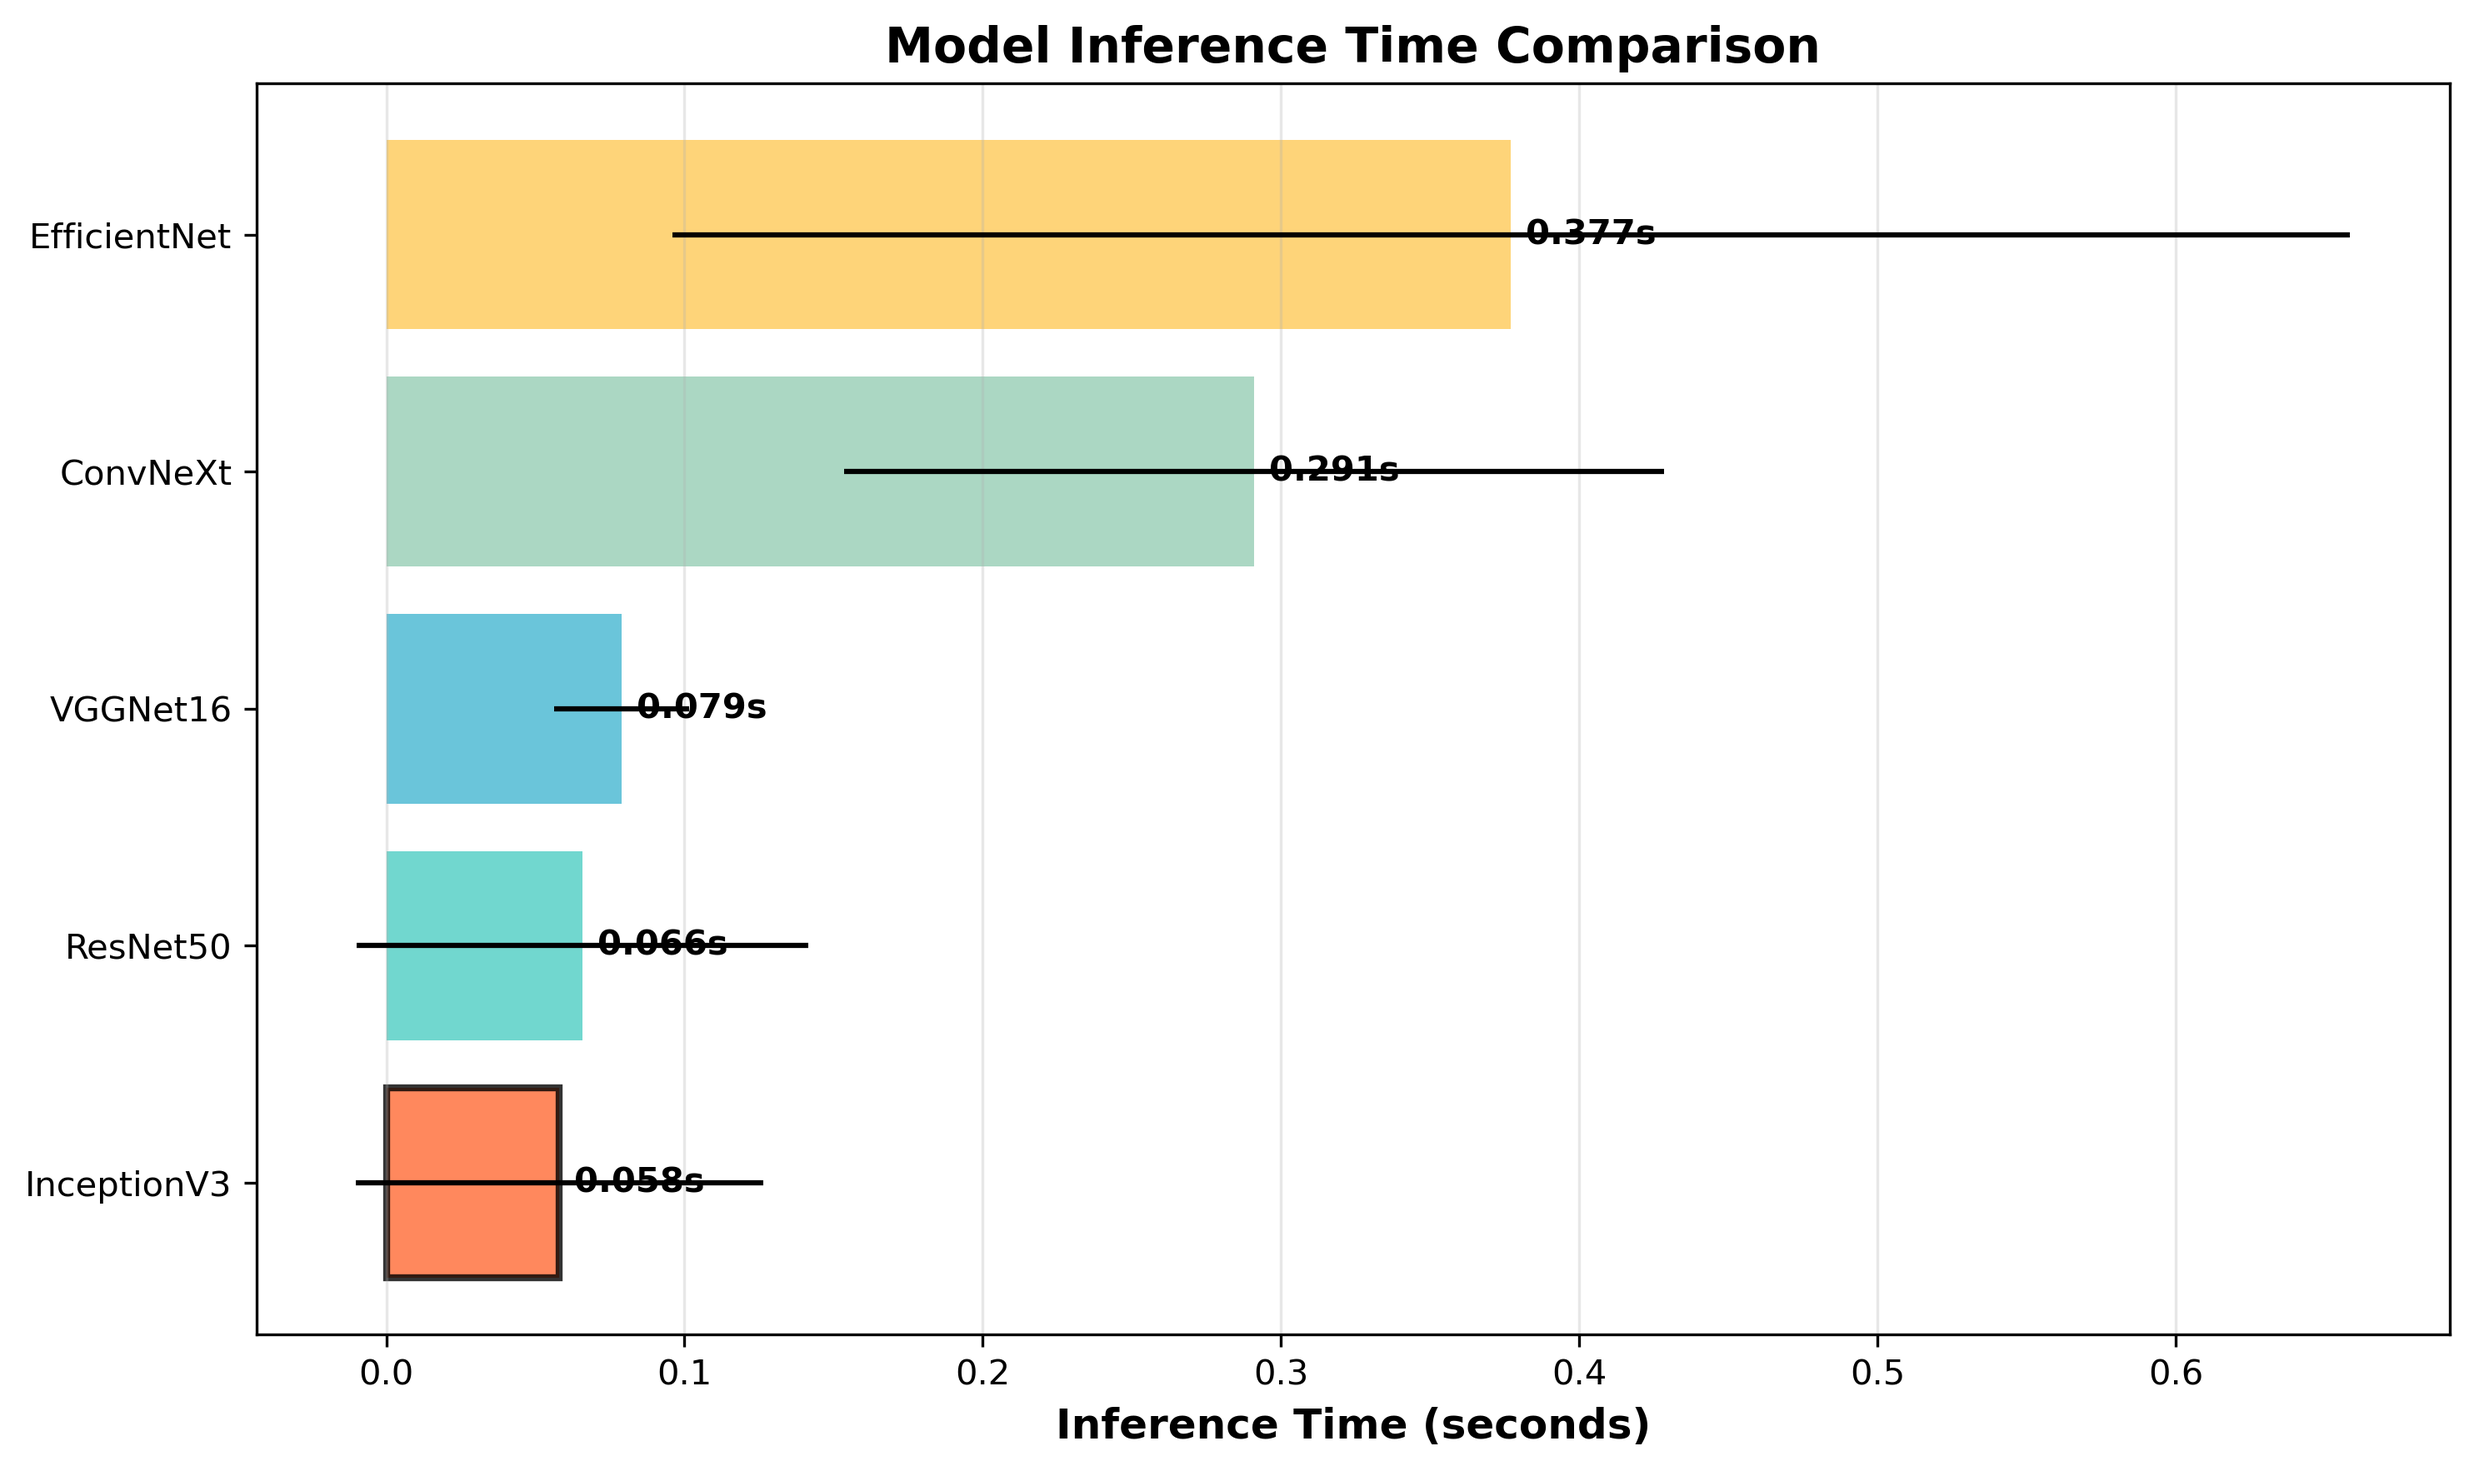
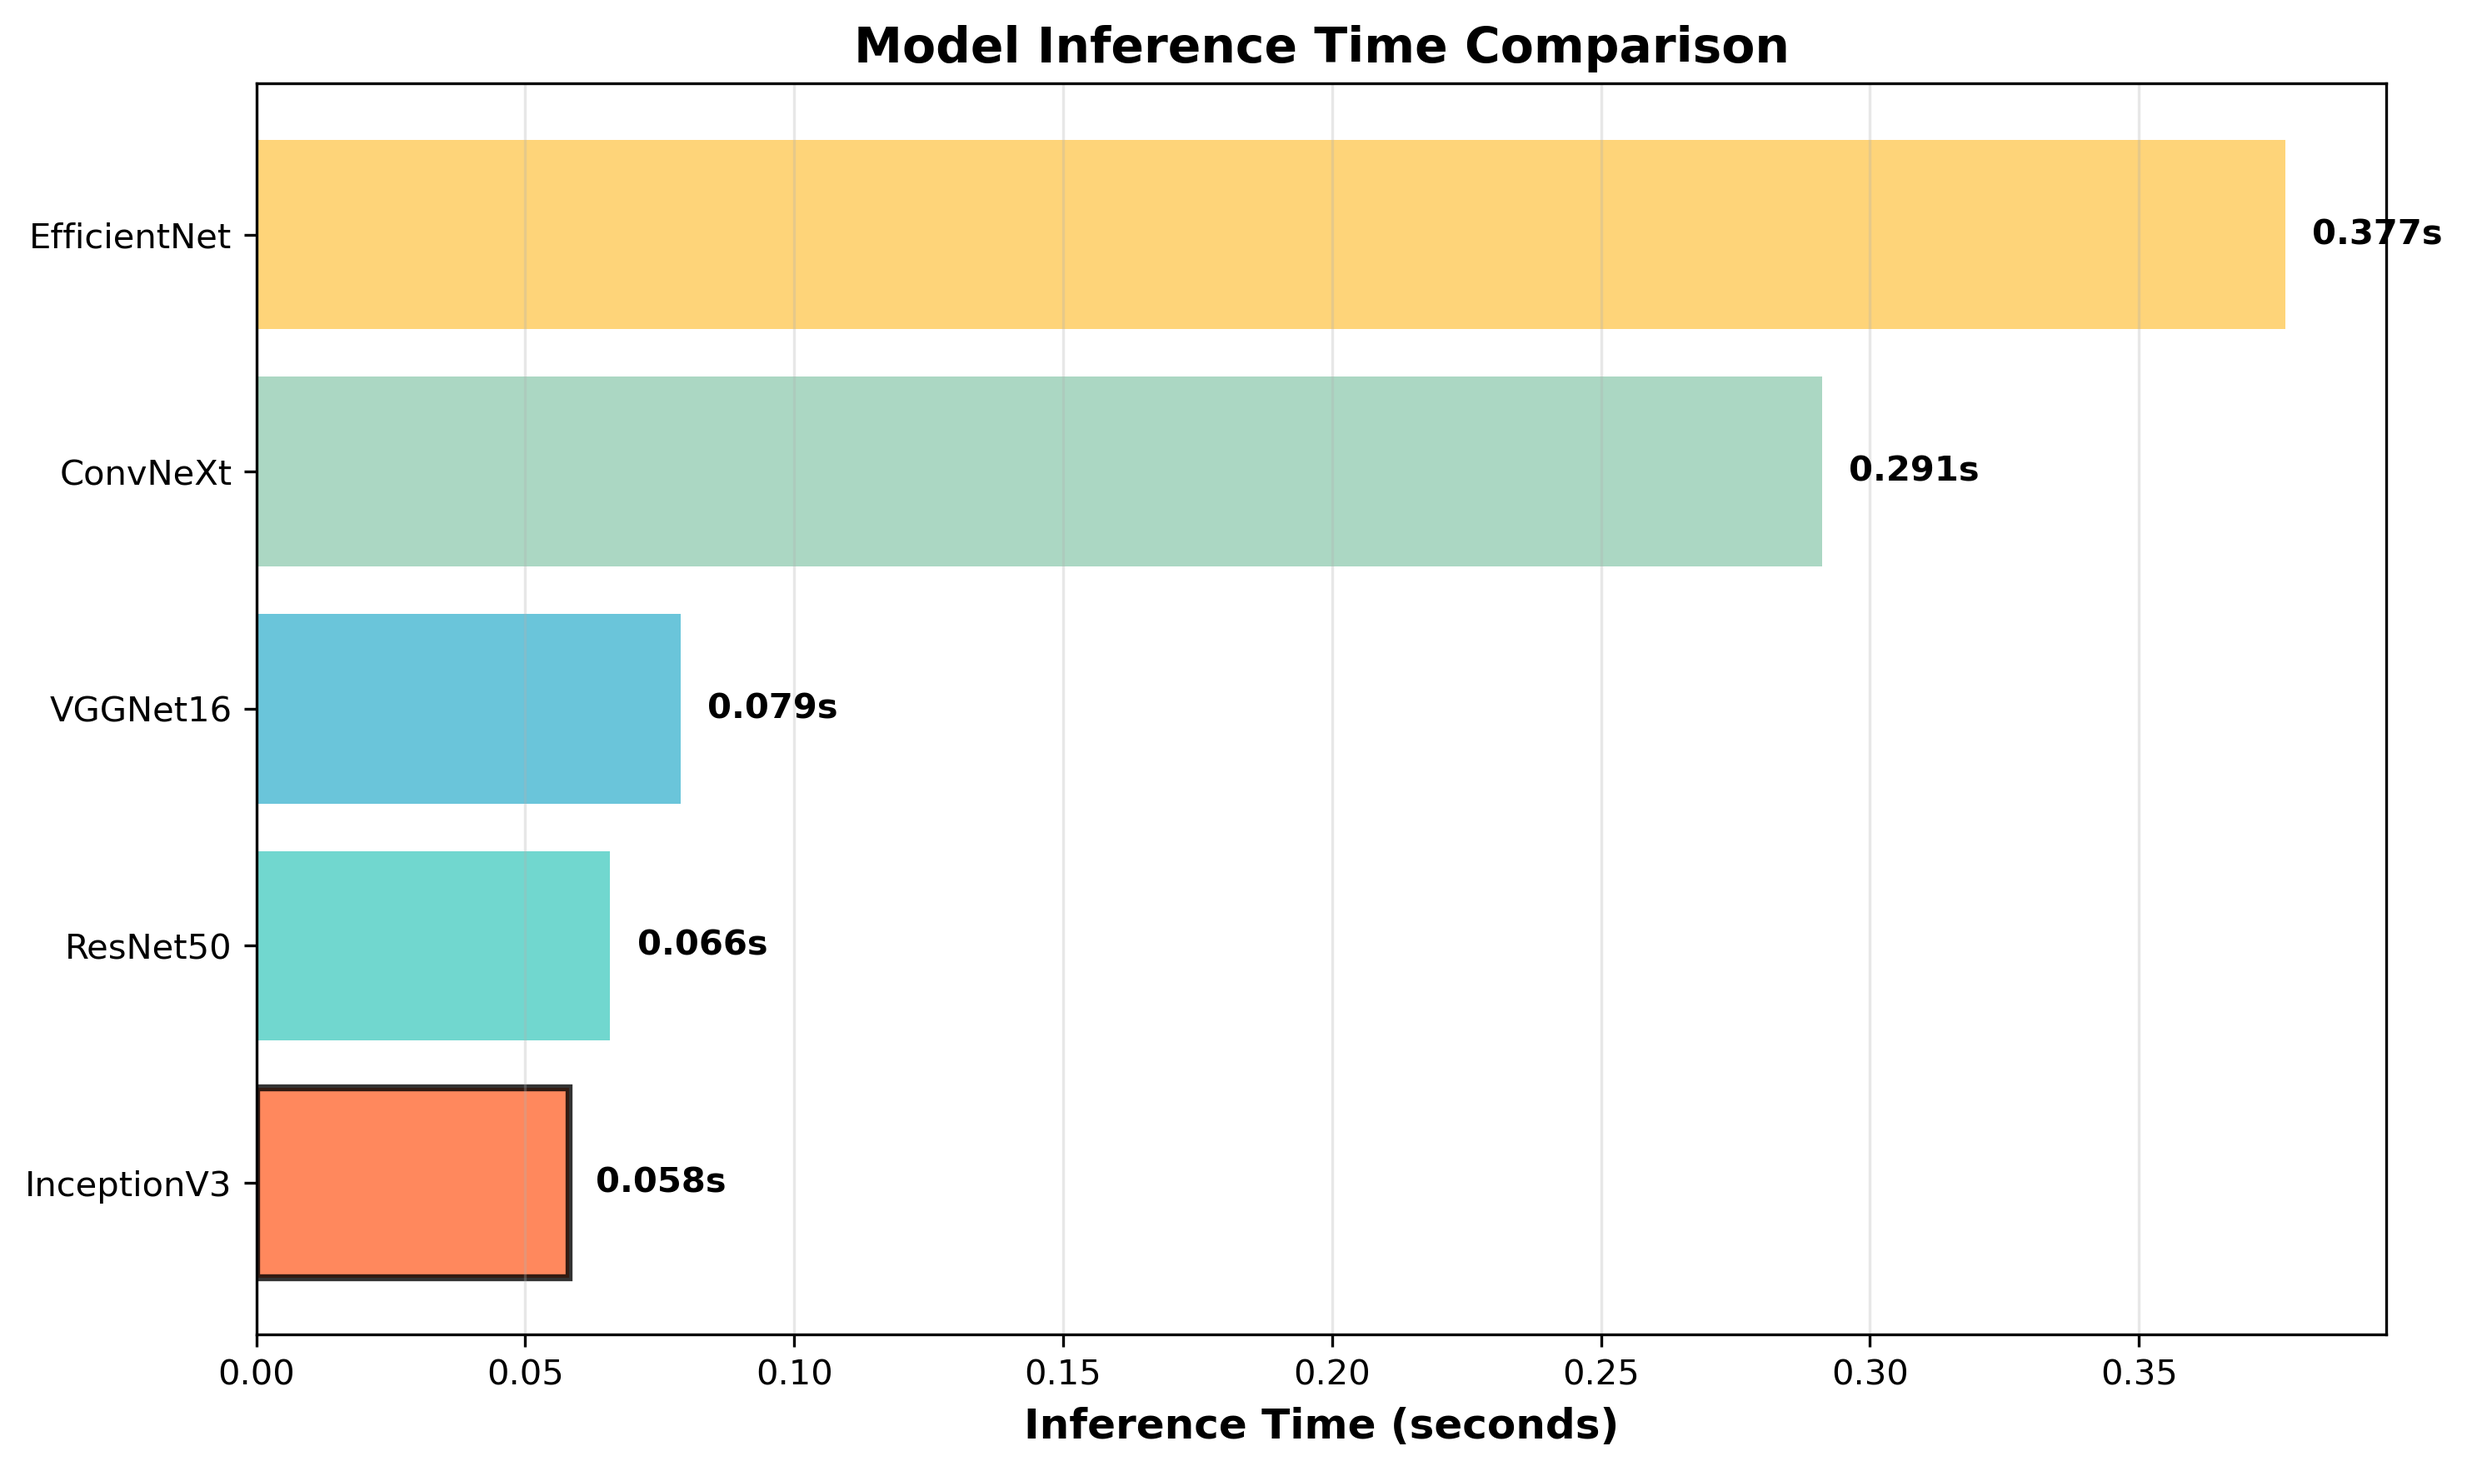
ch03pj01 - fixes some bugs

diff --git a/Zarni_Nway_Oo/ch03_pj01/analysis_visualizer.py b/Zarni_Nway_Oo/ch03_pj01/analysis_visualizer.py
@@ -89,6 +89,16 @@ class CNNAnalyzer:
         
         for model in self.models:
             if model not in model_data:
+                # Add default empty metrics for missing models
+                metrics.append({
+                    'model': model,
+                    'avg_top1_confidence': 0.0,
+                    'avg_all_confidence': 0.0,
+                    'std_top1_confidence': 0.0,
+                    'high_confidence_pct': 0.0,
+                    'low_confidence_pct': 0.0,
+                    'total_predictions': 0
+                })
                 continue
                 
             data = model_data[model]
@@ -133,15 +143,12 @@ class CNNAnalyzer:
                 min_time = times.min()
                 max_time = times.max()
             else:
-                # Fallback to simulated data
-                simulated_times = {
-                    'ResNet50': 0.045, 'VGGNet16': 0.032, 'InceptionV3': 0.058,
-                    'ConvNeXt': 0.072, 'EfficientNet': 0.089
-                }
-                avg_time = simulated_times[model]
-                std_time = avg_time * 0.2
-                min_time = avg_time * 0.8
-                max_time = avg_time * 1.2
+                # Set default values for missing timing data
+                print(f"⚠  Warning: No timing data found for {model}, using default values")
+                avg_time = 1.0  # Default 1 second
+                std_time = 0.1
+                min_time = 0.9
+                max_time = 1.1
             
             timing_metrics.append({
                 'model': model,
@@ -160,6 +167,16 @@ class CNNAnalyzer:
         
         for model in self.models:
             if model not in model_data:
+                # Add default confidence metrics for missing models
+                confidence_metrics.append({
+                    'model': model,
+                    'mean_confidence': 0.0,
+                    'median_confidence': 0.0,
+                    'q25_confidence': 0.0,
+                    'q75_confidence': 0.0,
+                    'min_confidence': 0.0,
+                    'max_confidence': 0.0
+                })
                 continue
                 
             data = model_data[model]
@@ -183,18 +200,27 @@ class CNNAnalyzer:
         timing_metrics = self.calculate_timing_metrics()
         conf_metrics = self.calculate_confidence_metrics()
         
-        # Merge all metrics
-        summary = perf_metrics.merge(timing_metrics, on='model')
-        summary = summary.merge(conf_metrics, on='model')
+        # Merge all metrics using left join to preserve all models
+        summary = perf_metrics.merge(timing_metrics, on='model', how='left')
+        summary = summary.merge(conf_metrics, on='model', how='left')
         
-        # Calculate overall score (normalized)
-        summary['speed_score'] = 1 / summary['avg_time']  # Higher is better
+        # Fill any missing values with reasonable defaults
+        summary['avg_time'] = summary['avg_time'].fillna(1.0)  # Default 1 second
+        summary = summary.fillna(0)
+        
+        # Calculate overall score (normalized) - protect against division by zero
+        summary['speed_score'] = 1 / summary['avg_time'].replace(0, 1.0)  # Higher is better
         summary['confidence_score'] = summary['avg_top1_confidence']
         
-        # Normalize scores to 0-100
+        # Normalize scores to 0-100 (handle division by zero)
         for col in ['speed_score', 'confidence_score']:
-            summary[f'{col}_normalized'] = ((summary[col] - summary[col].min()) / 
-                                          (summary[col].max() - summary[col].min())) * 100
+            col_min = summary[col].min()
+            col_max = summary[col].max()
+            if col_max - col_min > 0:  # Avoid division by zero
+                summary[f'{col}_normalized'] = ((summary[col] - col_min) / 
+                                              (col_max - col_min)) * 100
+            else:
+                summary[f'{col}_normalized'] = 50  # Default middle value if all same
         
         # Calculate overall rank
         summary['overall_score'] = (summary['speed_score_normalized'] + 
@@ -273,7 +299,7 @@ class CNNAnalyzer:
         ax.set_title('CNN Model Performance Comparison', fontsize=14, fontweight='bold')
         ax.set_xticks(x)
         ax.set_xticklabels(summary_df['model'], rotation=45)
-        ax.legend(loc='upper left', fontsize=10)
+        ax.legend(loc='upper right', fontsize=10)
         ax.grid(True, alpha=0.3, axis='y')  # Only horizontal grid lines
         
         # Set y-axis limit to accommodate labels
@@ -304,7 +330,7 @@ class CNNAnalyzer:
         std_times = np.array(timing_df['std_time'].values, dtype=float)
         
         bars = ax.barh(timing_df['model'], avg_times, 
-                      xerr=std_times, color=colors, alpha=0.8)
+                      color=colors, alpha=0.8)
         
         # Highlight InceptionV3
         for i, model in enumerate(timing_df['model']):
@@ -393,16 +419,28 @@ class CNNAnalyzer:
         ax1.set_title('InceptionV3 Top-1 Confidence Distribution')
         ax1.grid(True, alpha=0.3)
         
-        # Panel 2: Top-K accuracy simulation
-        top_k_acc = [85.2, 92.1, 95.8][:self.top_k]  # Adjust to actual top_k
-        k_values = list(range(1, self.top_k + 1))
-        ax2.plot(k_values, top_k_acc, 'o-', color=self.inception_color, 
-                linewidth=3, markersize=8)
-        ax2.set_xlabel('Top-K')
-        ax2.set_ylabel('Accuracy (%)')
-        ax2.set_title('InceptionV3 Top-K Performance')
-        ax2.grid(True, alpha=0.3)
-        ax2.set_xticks(k_values)
+        # Panel 2: Top-K confidence comparison
+        k_values = []
+        avg_confidences = []
+        
+        for k in range(1, self.top_k + 1):
+            if f'top{k}_probs' in inception_data:
+                topk_probs = np.array(inception_data[f'top{k}_probs'], dtype=float)
+                k_values.append(k)
+                avg_confidences.append(np.mean(topk_probs))
+        
+        if k_values:
+            ax2.plot(k_values, avg_confidences, 'o-', color=self.inception_color, 
+                    linewidth=3, markersize=8)
+            ax2.set_xlabel('Top-K Rank')
+            ax2.set_ylabel('Average Confidence')
+            ax2.set_title('InceptionV3 Average Confidence by Rank')
+            ax2.grid(True, alpha=0.3)
+            ax2.set_xticks(k_values)
+        else:
+            ax2.text(0.5, 0.5, 'No Top-K data available', ha='center', va='center', 
+                    transform=ax2.transAxes, fontsize=12)
+            ax2.set_title('InceptionV3 Top-K Analysis (No Data)')
         
         # Panel 3: Confidence by prediction rank (flexible for any top_k)
         rank_data = [top1_probs]

diff --git a/Zarni_Nway_Oo/ch03_pj01/classify_img.py b/Zarni_Nway_Oo/ch03_pj01/classify_img.py
@@ -37,14 +37,14 @@ def get_predictions(image_dir, k=1):
                 model_end_time = time.time()
                 
                 model_time = model_end_time - model_start_time
-                timing_data.append(model_time)
+                timing_data.append(round(model_time, 2))
                 for pred in preds:
                     row_data.append(pred[1]) #class name
                     row_data.append(pred[2]) #probability  
         
             row_data.extend(timing_data)
             total_time = time.time() - total_start_time
-            row_data.append(total_time)
+            row_data.append(round(total_time, 2))
             
             result_rows.append(row_data)
 
